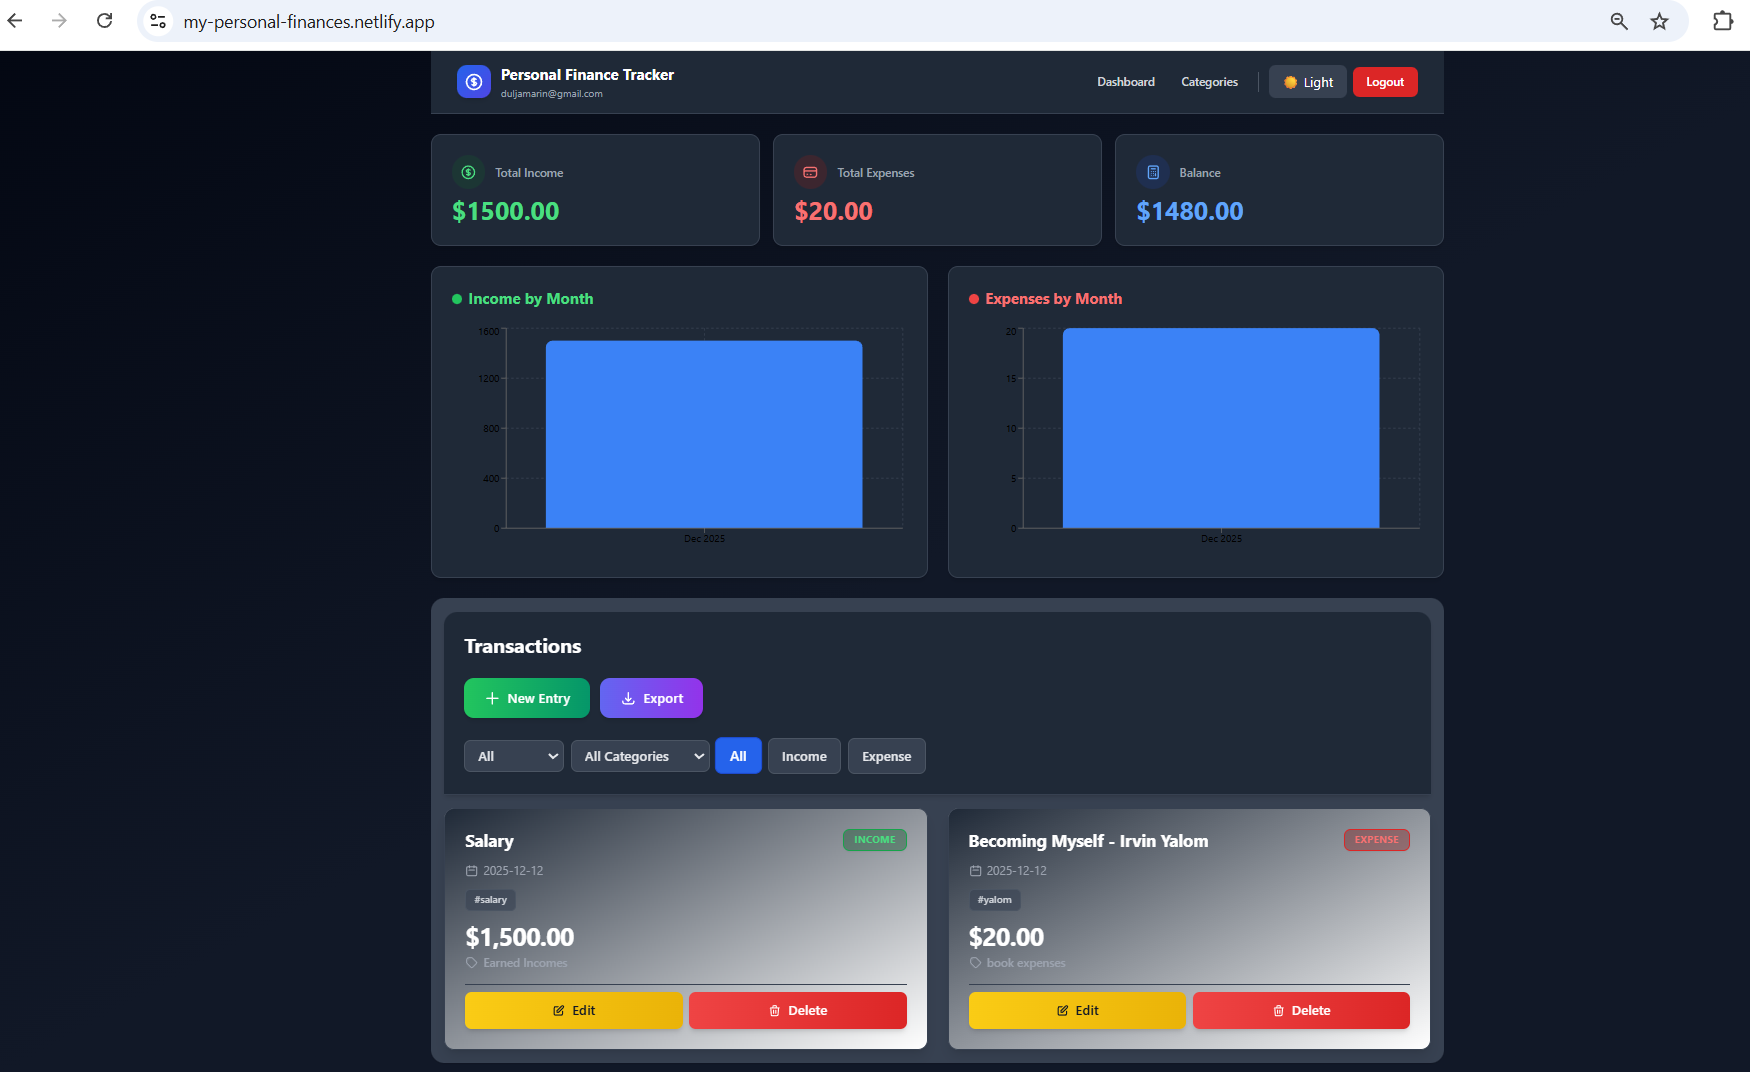
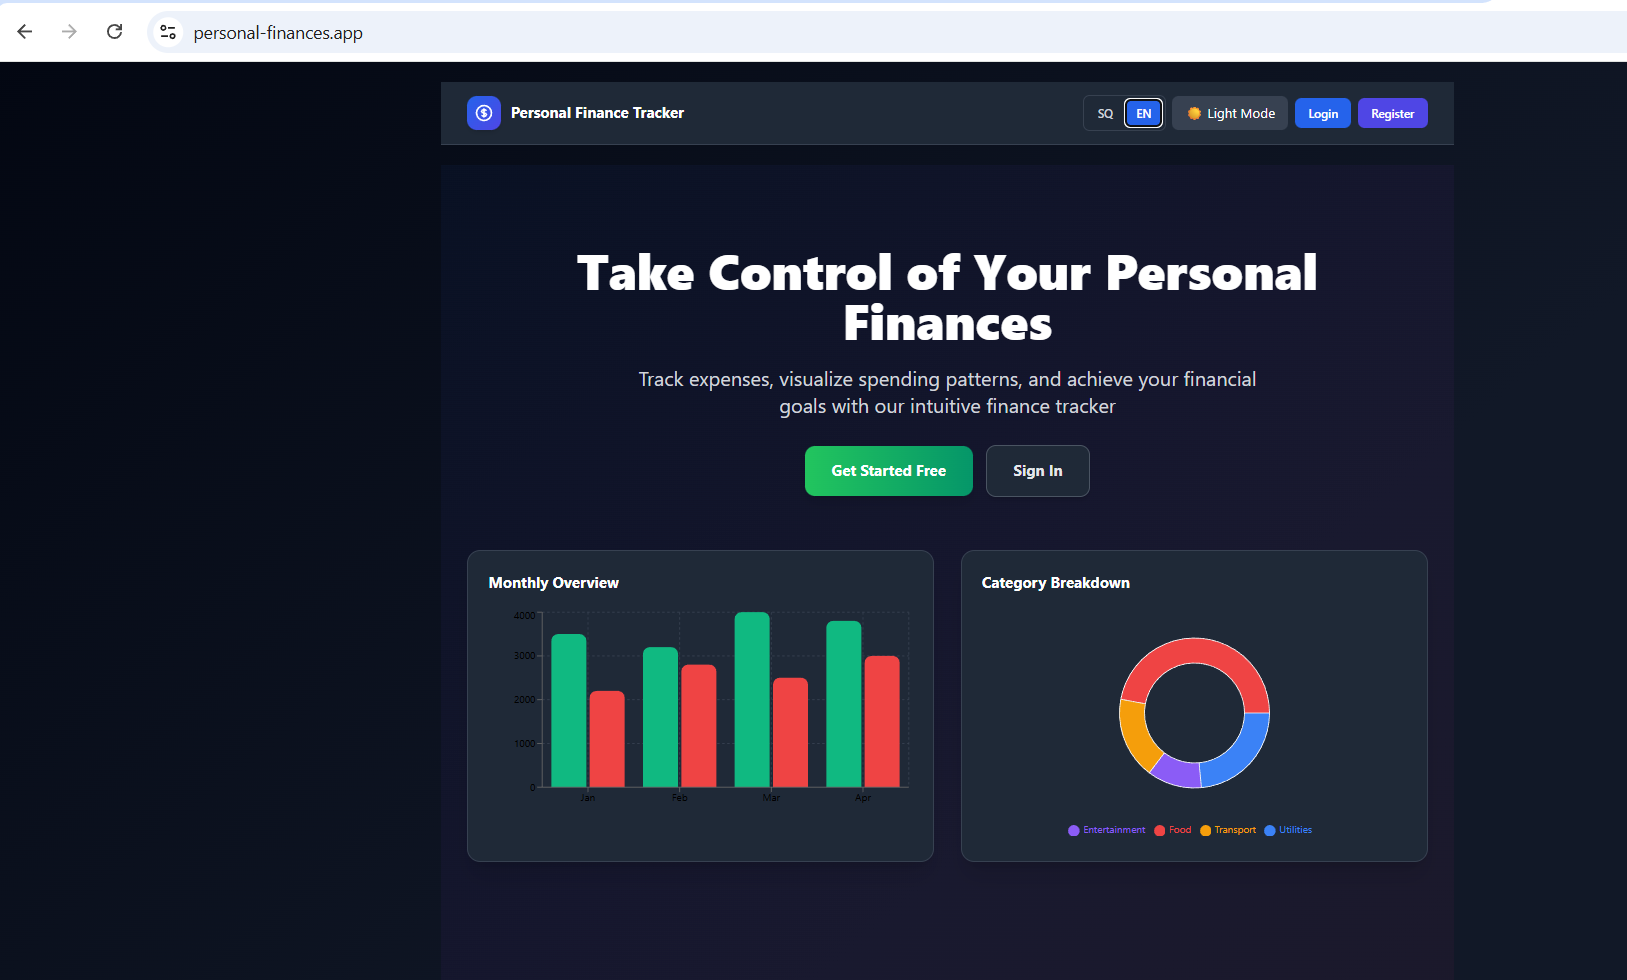
Added featured badge to project card and updated project data; replaced personal finance images

diff --git a/portofolio/src/components/ProjectCard.tsx b/portofolio/src/components/ProjectCard.tsx
@@ -59,6 +59,59 @@ const ProjectCard: React.FC<ProjectCardProps> = ({ project }) => {
                   )}
                </div>
             ) : null}
+         
+         {/* Featured Badge */}
+         {project.badge && (
+            <div style={{
+               marginBottom: '0.75rem',
+               display: 'inline-block'
+            }}>
+               <a
+                  href={project.badge.url}
+                  target="_blank"
+                  rel="noopener noreferrer"
+                  onClick={(e) => e.stopPropagation()}
+                  style={{
+                     display: 'inline-flex',
+                     alignItems: 'center',
+                     gap: '6px',
+                     padding: '6px 12px',
+                     borderRadius: '6px',
+                     fontSize: '0.85rem',
+                     fontWeight: 600,
+                     fontFamily: 'Montserrat, Inter, sans-serif',
+                     background: project.badge.color === 'purple' 
+                        ? 'linear-gradient(135deg, #5a4fcf 0%, #5e3a8e 100%)'
+                        : project.badge.color === 'blue'
+                        ? 'linear-gradient(135deg, #2563eb 0%, #1e40af 100%)'
+                        : project.badge.color === 'green'
+                        ? 'linear-gradient(135deg, #059669 0%, #047857 100%)'
+                        : project.badge.color === 'orange'
+                        ? 'linear-gradient(135deg, #ea580c 0%, #c2410c 100%)'
+                        : 'linear-gradient(135deg, #dc2626 0%, #991b1b 100%)',
+                     color: '#fff',
+                     textDecoration: 'none',
+                     boxShadow: '0 2px 8px rgba(0,0,0,0.15)',
+                     transition: 'transform 0.2s ease, box-shadow 0.2s ease',
+                     cursor: 'pointer'
+                  }}
+                  onMouseEnter={(e) => {
+                     e.currentTarget.style.transform = 'translateY(-2px)';
+                     e.currentTarget.style.boxShadow = '0 4px 12px rgba(0,0,0,0.25)';
+                  }}
+                  onMouseLeave={(e) => {
+                     e.currentTarget.style.transform = 'translateY(0)';
+                     e.currentTarget.style.boxShadow = '0 2px 8px rgba(0,0,0,0.15)';
+                  }}
+               >
+                  <svg width="14" height="14" viewBox="0 0 24 24" fill="none" stroke="currentColor" strokeWidth="2.5" strokeLinecap="round" strokeLinejoin="round">
+                     <path d="M12 2l3.09 6.26L22 9.27l-5 4.87 1.18 6.88L12 17.77l-6.18 3.25L7 14.14 2 9.27l6.91-1.01L12 2z" />
+                  </svg>
+                  {project.badge.text}
+               </a>
+            </div>
+         )}
+
          <div className="project-title" style={{
             fontFamily: 'Montserrat, Inter, Segoe UI, Roboto, Arial, sans-serif',
             color: 'var(--neon)',

diff --git a/portofolio/src/data/projects.ts b/portofolio/src/data/projects.ts
@@ -8,6 +8,11 @@ export type Project = {
   links: { label: string; url: string }[];
   tags: string[];
   type: 'main' | 'frontend-learning' | 'fullstack' | 'contractor';
+  badge?: {
+    text: string;
+    url?: string;
+    color?: 'blue' | 'green' | 'purple' | 'orange' | 'red';
+  };
 };
 
 export const projects: Project[] = [
@@ -24,13 +29,18 @@ export const projects: Project[] = [
     title: 'Personal Finance Tracker (Fullstack)',
     description:
       'A fullstack personal finance tracker currently in development. Frontend built with React.js and Tailwind CSS. Backend powered by Supabase.',
-    gallery: ['/personal-finances-1.png', '/personal-finances-categories.png', '/personal-finances-2.png'],
+    gallery: ['/personal-finances-1.png', '/personal-finances-2.png', '/personal-finances-3.png'],
     links: [
-      { label: 'Live Site', url: 'https://my-personal-finances.netlify.app/' },
+      { label: 'Live Site', url: 'https://personal-finances.app/' },
       { label: 'GitHub', url: 'https://github.com/freudmarin/personal-finance-tracker' }
     ],
     tags: ['React', 'Tailwind', 'Supabase', 'Full-Stack'],
     type: 'fullstack',
+    badge: {
+      text: 'Featured on FIP.al • 3000+ Daily Views',
+      url: 'https://www.fip.al/pages/mjete-financiare.html',
+      color: 'green',
+    },
   },
   {
     title: 'ClearSight Clinic Website',

diff --git a/portofolio/src/components/AboutMe.tsx b/portofolio/src/components/AboutMe.tsx
@@ -3,7 +3,7 @@ import '../styles/main.css';
 
 const aboutText = [
   "Hi, I'm Marin Dulja, a full-stack software engineer focused on building scalable, reliable, and modern web applications.",
-  "Using Java, Kotlin, Spring Boot, and React.js, I help businesses turn ideas into fast and maintainable web solutions."
+  "Using Java, Kotlin, Spring Boot, and React.js, I help\u00A0businesses\u00A0turn ideas into fast and maintainable web solutions."
 ];
 const TYPING_SPEED = 45; // ms per character (slower)
 
